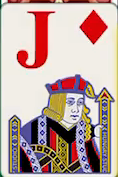
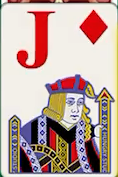
Refresh source-aligned opening card crops

diff --git a/tests/solitaire.spec.js b/tests/solitaire.spec.js
@@ -398,6 +398,8 @@ async function runSourceOpeningReplay(page) {
   const sourceOpeningArtHashes = await page.evaluate(async () => Promise.all([
     '4-of-clubs-reference.png', '6-of-clubs-reference.png', '2-of-clubs-reference.png',
     '3-of-clubs-reference.png', 'queen-of-clubs-reference.png', '9-of-diamonds-reference.png',
+    '5-of-diamonds-reference.png', 'queen-of-spades-reference.png',
+    'king-of-diamonds-reference.png', 'jack-of-diamonds-reference.png',
   ].map(async (name) => {
     const response = await fetch(`/assets/cards/${name}`);
     const digest = await crypto.subtle.digest('SHA-256', await response.arrayBuffer());
@@ -410,6 +412,10 @@ async function runSourceOpeningReplay(page) {
[7 lines of base64/hex data omitted]
   ]);
   await page.waitForTimeout(1000);
   await page.evaluate(() => {

diff --git a/research/solitaire-master/source-opening-visual-match-2026-11-25/README.md b/research/solitaire-master/source-opening-visual-match-2026-11-25/README.md
@@ -43,14 +43,14 @@ python3 tools/compare_screenshots.py \
 
 | Region | Mean absolute RGB error |
 | --- | ---: |
-| Full image | 4.330651 |
-| Full image with the iOS home indicator masked | 3.929363 |
+| Full image | 4.304038 |
+| Full image with the iOS home indicator masked | 3.902749 |
 | Header | 6.086404 |
 | Foundations and stock | 3.910043 |
-| Tableau | 10.737537 |
-| Empty background | 0.381497 |
+| Tableau | 10.618841 |
+| Empty background | 0.377074 |
 | Bottom controls | 4.502385 |
 
[2 lines of base64/hex data omitted]
 
 The source menu crop is 72×74 pixels and was previously squeezed into a 72×72 box. It now renders at 36×37 CSS pixels with a half-pixel offset in the 2× source replay. The menu crop remains aligned at its recorded origin. The source tableau card origins are `(8, 133, 258, 383, 508, 633, 758)` at 884×1920, and the four empty foundations begin at `(8,429)`, `(133,429)`, `(258,429)`, and `(383,429)`. The E2E replay checks those origins, the menu position and size, and the exact felt gradient color. This remains a measured comparison of one static frame.

diff --git a/assets/cards/README.md b/assets/cards/README.md
@@ -66,7 +66,7 @@ The 8♥ crop uses source rectangle `(648, 428, 118, 177)` from the 95-second ga
 
 The 6♣, 2♣, 4♣, 3♣, Q♣, and 9♦ use complete crops from the 20-second opening frame at `(133,646)`, `(258,695)`, `(8,732)`, `(508,720)`, `(633,744)`, and `(758,794)`, respectively; each crop is 118×177 pixels. The 6♣ and 2♣ replace App Store crops whose blue-tinted clubs did not match the black artwork. These six visible faces come from the exact frame used by the opening-board replay.
 
-For the 884×1920 replay comparison, these six PNGs are cropped from the AVFoundation frame at PTS 307200, then tagged with the sRGB ICC profile using `sips -e` without changing their RGB channel values. This avoids an extra color conversion in Chrome: the refreshed assets match the source-frame crop byte-for-byte at the pixel level, and the tableau MAE falls from 11.099697 to 10.737537. The source frame is `frame-00000-req-020.000000-pts-307200.png` in `/tmp/solitaire-source-20s`; its SHA-256 is recorded in the [visual comparison](../../research/solitaire-master/source-opening-visual-match-2026-11-25/README.md).
[1 lines of base64/hex data omitted]
 
 On macOS, `sips -c 177 118 --cropOffset Y X source-frame.png --out card-reference.png` reproduces a 118×177 crop without resampling; replace `Y` and `X` with the documented source origin.
 
